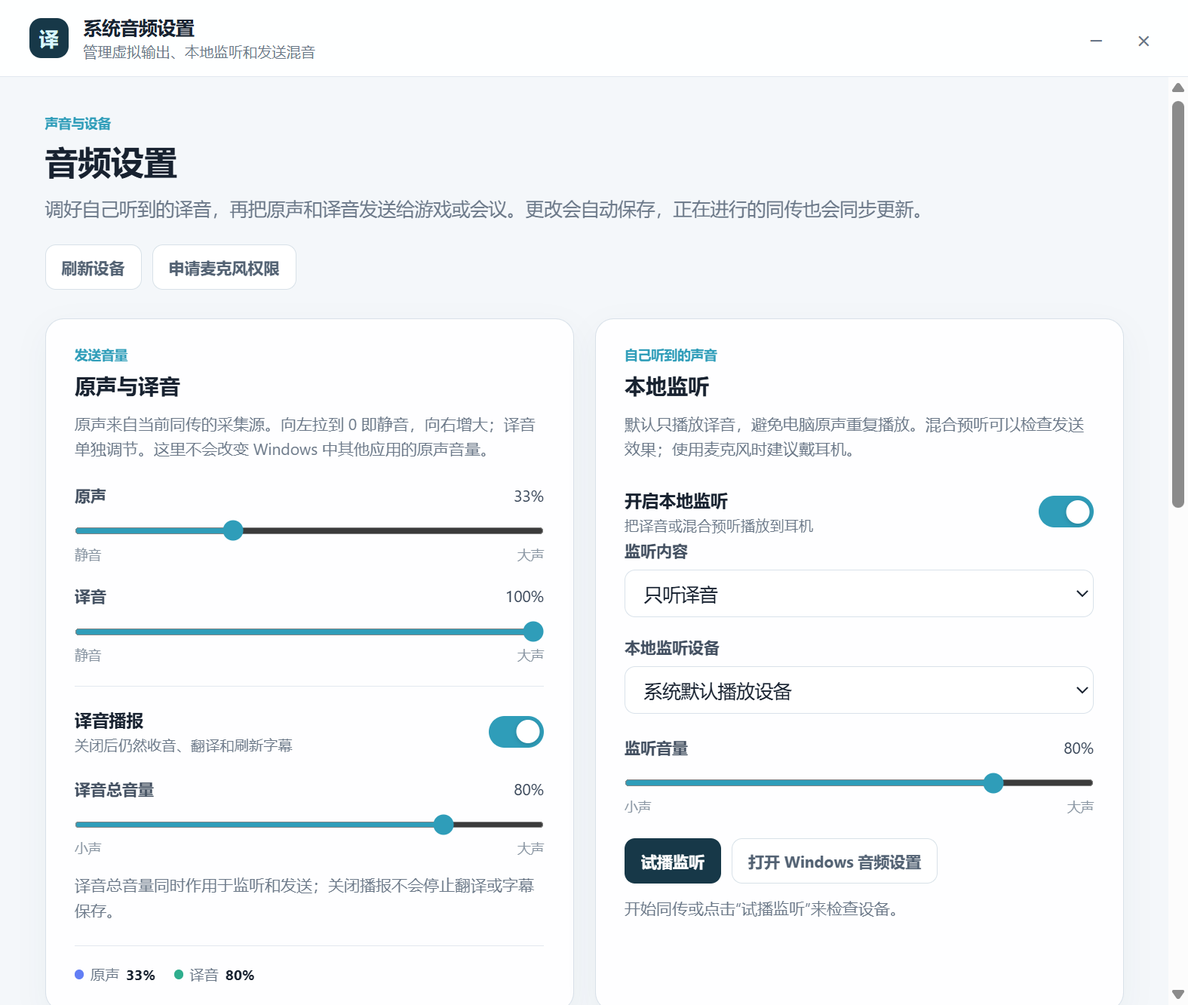
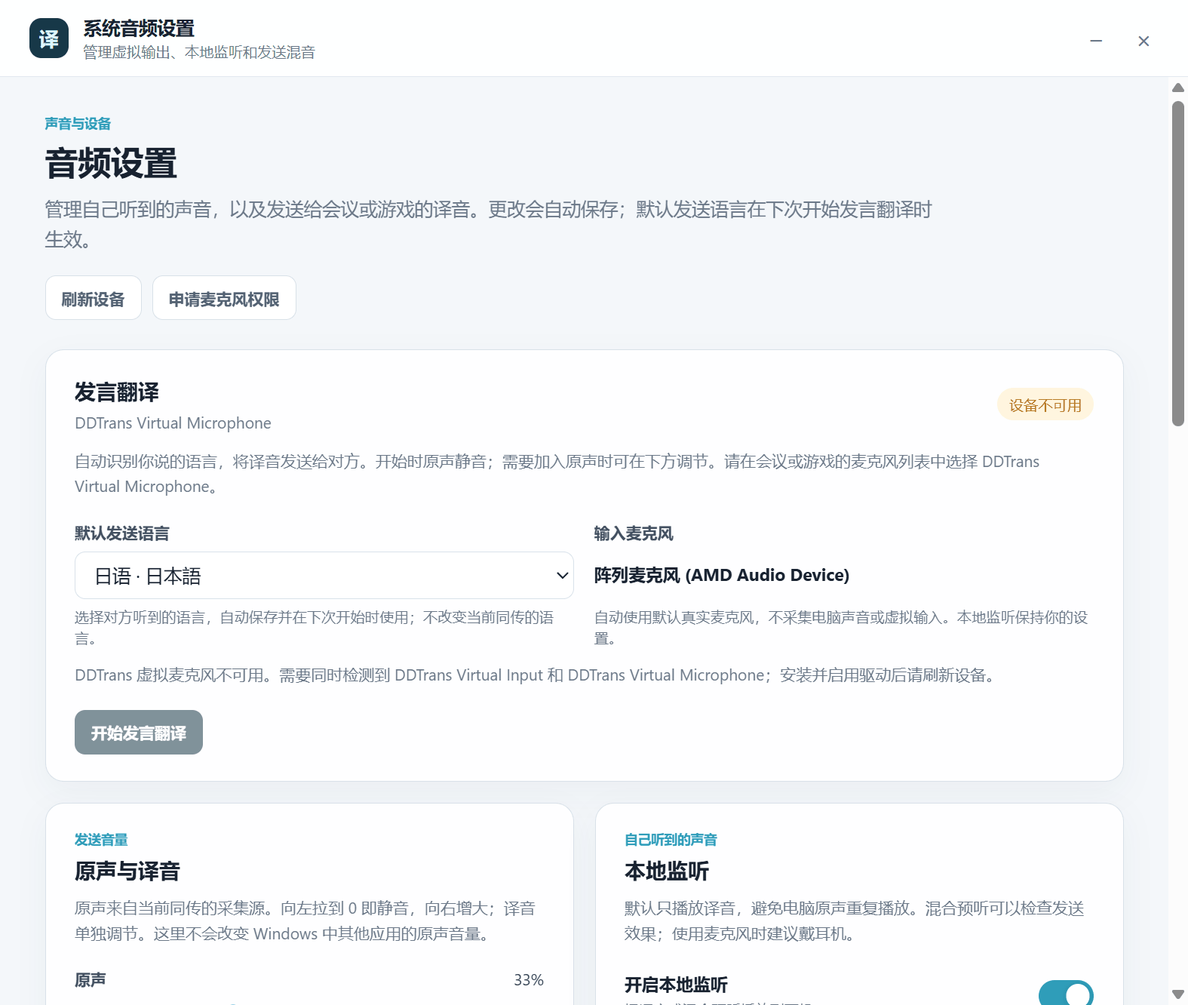
test(desktop): verify virtual microphone settings and document the development milestone

diff --git a/docs/virtual-microphone-production-plan-2026-10-29.md b/docs/virtual-microphone-production-plan-2026-10-29.md
@@ -1,17 +1,15 @@
 # DDTrans Virtual Microphone 生产方案
 
+> 2026-10-29 开发进展：已按自有最小驱动路线实现源码、x64 构建、开发签名与设置页发言翻译；尚未安装/加载或通过外部收音验证。用户已选择自有最小驱动；下文保留路线依据与后续验收，当前实测状态以 [开发记录](virtual-microphone-development-2026-10-29.md) 为准。
+
 日期：2026-10-29
 范围：让 Windows 会议、游戏和录音软件在麦克风列表中看到 `DDTrans Virtual Microphone`，并能收到 DDTrans 已混合的原声与译音。本文覆盖路线、架构、验收和发布边界。
 
 ## 结论
 
-当前 DDTrans 已具备这项工作的应用侧前提：48 kHz 单声道混音、原声/译音独立增益、独立监听、已有 Render Endpoint 的 `setSinkId` 路由，以及严格 JSON 设置合同。它还没有原生桥接、Windows 驱动、安装器或虚拟设备；本机探针也没有发现虚拟设备。因此，当前实现不能让会议或游戏选择 `DDTrans Virtual Microphone`。
+已按用户选择实现自有最小驱动路线：以 Microsoft SimpleAudioSample 固定版本为基础，提供 DDTrans Virtual Input / DDTrans Virtual Microphone 配对端点，复用当前 `setSinkId` 经 Chromium/WASAPI 输出，驱动桥接到 Capture。应用端已有 48 kHz 单声道混音、独立增益与监听，设置页已接入单向发言翻译。
 
-推荐路线是先验证端到端音频合同，再决定是否自有驱动：
-
-1. 使用用户自行安装的第三方虚拟线缆，把 DDTrans 混音发送到其 Render Endpoint，并在会议/游戏中选择配对的 Capture Endpoint。
-2. 验证通过后，在“自有 Windows 驱动”与“取得可分发的第三方商业/授权方案”之间做产品决策。
-3. 若做自有设备，第一版提供配对的 Render/Capture Endpoint：优先复用当前 `setSinkId` 经 Chromium/WASAPI 写入 Render Endpoint，驱动把这一条流提供给 Capture Endpoint；会议软件只看见后者。只有实测表明时钟、重连或可观测性不足时，才增加原生 WASAPI writer。不要一开始为应用设计私有 IOCTL 音频桥。
+当前产物包括驱动源码、可编译的 SYS/INF/CAT、原生检查与安装/移除工具、离线缓冲测试和本地开发签名。它们尚未安装或加载；本机没有 DDTrans 端点，外部收音仍待测试环境验证。第三方线缆保留为可选对照，不再是用户已选择路线的开发前置条件。
 
 这不是翻译协议或模型问题。它消费的是应用已产生的固定 PCM 混音流，翻译 WebSocket、模型和服务端可以保持解耦。
 
@@ -42,7 +40,7 @@
 
 按当前需求，建议把它定义为“发言翻译”里程碑，接入现有同传主线：
 
-1. 在设置页进入发言翻译，选择真实麦克风和要让对方听到的目标语言；源语言保持自动识别。
+1. 在设置页进入发言翻译，选择要让对方听到的目标语言；自动选择真实麦克风，源语言保持自动识别。
 2. 默认发送“仅译音”，原声增益为 0；需要双语原声时再增加原声。自己的监听单独开关、单独选耳机。
 3. 应用把该方向的混音送往 DDTrans Virtual Input，会议/游戏选择 DDTrans Virtual Microphone。
 4. 停止翻译时系统设备继续存在并输出静音；恢复翻译继续送入同一设备。
@@ -58,13 +56,13 @@
 - 严格 JSON 路由设置、即时应用和原子保存。
 - Windows 真实播放路径已验证；当前设备是普通扬声器，未验证外部程序通过配对 Capture Endpoint 收音。
 
-尚不存在：`DDTrans Virtual Microphone` Capture Endpoint、与其配对的 Render Endpoint、`.sys`/`.inf`/`.cat` 驱动包、签名、安装/卸载和 PnP 生命周期处理。
+已实现配对端点的源码、`.sys`/`.inf`/`.cat` 开发包、开发签名与安装/移除工具；本机尚无已安装的 DDTrans 端点。内核加载、真实收音及 PnP/电源生命周期均待实测。
 
 `AudioContext.setSinkId()` 只能选择系统已经枚举出的输出端点。它适合第一阶段把现有混音送进第三方线缆的 Render Endpoint，但不能创建新设备。音频 APO 也不是替代方案：Microsoft 将 APO 定义为插入既有音频处理图的用户态 DSP，且 APO 不能改变底层逻辑设备的 KS 拓扑。因此，改设备显示名或添加 APO 都不能凭空新增一个麦克风端点。[来源 7](#来源与访问日期)
 
 ## 最小可交付架构
 
-### 第一阶段：第三方端点的端到端证明
+### 可选对照：第三方端点的端到端证明
 
 ```text
 DDTrans 48 kHz mono mix bus
@@ -85,7 +83,7 @@ DDTrans 48 kHz mono mix bus
 
 VB-Audio 当前许可页分别规定不同产品与分发场景：基础 VB-CABLE 在终端用户能识别其 VB-Audio 身份、仍适用 donationware 模式等条件下，可以随应用分发；特定专业部署需要购买相应数量许可；VB-CABLE A+B、C+D 明确不能与其他产品捆绑分发。这些条件不能推导为可以任意去除厂商品牌或改造成 DDTrans 自有设备，定制名称及商业集成仍需核对实际适用授权。[来源 12](#来源与访问日期)
 
-### 第二阶段：自有驱动的最小数据路径
+### 已选路线：自有驱动的最小数据路径
 
 ```text
 DDTrans mix bus (48 kHz mono)
@@ -104,11 +102,13 @@ DDTrans mix bus (48 kHz mono)
 
 WASAPI/MMDeviceAPI 的职责正好覆盖此接口：应用枚举端点并对端点 render/capture 流；WaveRT 由音频引擎与 miniport 通过循环缓冲建立 render 或 capture 流。WaveRT 可减少复制，但这不代表可以省略驱动的实时状态、格式、缓冲与 PnP 实现。[来源 4](#来源与访问日期) [来源 5](#来源与访问日期)
 
-首版固定 PCM 合同为 `48 kHz / mono`，格式选择应在开发时根据驱动公开的格式能力定为一种明确的 PCM 表示。首选由当前 `setSinkId` 选择该 Render Endpoint；只有实测证明 Chromium 输出无法满足时钟稳定性、设备重连或所需诊断指标时，才增加原生 WASAPI writer。缓冲必须有上限，并计数写端饥饿、捕获端欠载、静音填充、格式拒绝和重连次数；不在方案阶段承诺具体延迟、性能或缓冲数值。
+首版固定硬件 PCM 合同为 `48 kHz / mono / signed PCM16`，Windows 共享模式适配客户端格式；桥缓存固定为 4800 样本（100 ms），当前数值未经真实内核延迟验证。首选由当前 `setSinkId` 选择该 Render Endpoint；只有实测证明 Chromium 输出无法满足时钟稳定性、设备重连或所需诊断指标时，才增加原生 WASAPI writer。缓冲必须有上限，并计数写端饥饿、捕获端欠载、静音填充、格式拒绝和重连次数；延迟与性能由真实设备验证给出，不由缓冲上限推断。
 
 不要在第一版做“Electron IPC 每帧 -> 私有 IOCTL -> Capture”路径。它引入应用、权限和内核接口的额外实时契约，却没有给会议软件带来任何必要能力。正常 Render/Capture Endpoint 对已经是 Windows 音频客户端的稳定边界；私有控制接口最多留给以后诊断或配置，不承载实时 PCM。
 
-### SysVAD 的正确用途
+### 样例选择与职责
+
+本轮实现使用较小的 Microsoft SimpleAudioSample，固定提交 `d65f6bb4041fa74f969e78ce2cfc230a71e824b4`，来源和 MIT 许可保存在 native/virtual-microphone/driver。样例的正弦采集和写磁盘路径已移除，替换为有界 Render→Capture 桥。
 
 Microsoft 的 SysVAD 是 WDM 虚拟音频设备驱动示例，展示多个音频设备、WaveRT 和端点实现，适合拿来建立项目骨架和理解 INF/拓扑。[来源 1](#来源与访问日期)
 
@@ -124,7 +124,7 @@ Microsoft 的 SysVAD 是 WDM 虚拟音频设备驱动示例，展示多个音频
 | D. 应用接入 | `setSinkId` 端点绑定、设备枚举/重连状态、既有 JSON 设置扩展；原生 writer 的实测决策记录 | 设备重启、禁用/启用、拔插等价 PnP 变化后状态可理解且可恢复；原生 writer 仅在已有输出未满足时新增 | 把原生 writer 预设为必需进程、改动翻译协议、模型或服务端 |
 | E. 安装与发布 | Windows 11 x64 驱动包、安装/卸载流程、签名提交记录、兼容性测试记录 | 干净安装、升级、卸载、重启、休眠恢复均可复现 | 未签名或测试签名向客户正式分发 |
 
-阶段 A 是继续自有驱动前的门槛：如果 DDTrans 的混音、设备选择或回声边界在第三方 Render/Capture pair 上都不能稳定通过，先修应用路由，而不是把问题带入内核。
+用户已选择自有路线，阶段 A 为可选对照，B 已完成路线选择。C/D 已实现源码与离线测试，真实端点与外部收音验收仍未完成；E 已有开发工具，正式签名和生命周期验收未完成。应用路由失败时先定位用户态与驱动边界，不以换驱动掩盖问题。
 
 ## 驱动、架构与构建边界
 
@@ -167,16 +167,11 @@ Microsoft 的 SysVAD 是 WDM 虚拟音频设备驱动示例，展示多个音频
 - **休眠/恢复**：睡眠、休眠与唤醒后验证 WaveRT 状态、WASAPI 会话和设备通知；无效句柄必须释放并重建，不能继续写入旧缓冲。
 - **并发与格式**：多个会议/录音客户端、48 kHz mono 之外的客户端请求、共享模式竞争和应用崩溃恢复都必须得到可诊断结果，而不是静默失声。
 
-## 决策门
+## 进入安装验证与正式发布
 
-在开始生产驱动前，必须同时满足：
+源码开发和离线构建可以继续，不需要提前重启。下一步是由用户安排可加载开发签名驱动的测试环境，先执行只读检查，再安装和验证。工具不会修改 BCD、Secure Boot 或证书根信任，也不会主动重启；Windows 返回重启要求时保留退出码并通知用户。
 
-- 阶段 A 的外部 Capture 录音证明已完成，且发送/监听/回送边界清晰。
-- 产品是否需要在会议软件中稳定保留设备名、是否需 Windows Update 分发，已形成 Windows 11 x64 的发布范围；ARM64 仅在明确提出后另行立项。
-- 第三方路线已取得适用许可，或自有驱动的签名账户、组织主体和发布责任已落实。
-- 自有驱动的固定 PCM 合同、静音失效策略、端点命名、安装卸载和测试矩阵已经评审。
-
-在此之前，最小且正确的投入是第三方 Render/Capture pair 上的端到端验证；不应新建私有实时 IOCTL 协议，不应改翻译协议/模型，也不应把 SysVAD 当成可直接发布的虚拟线缆。
+生产发布前完成前述 Capture 录音、回送隔离及生命周期验收，确定发布范围并落实 Microsoft 签名流程。当前开发包不得作为已认证发行版，也不能以“编译通过”代替内核运行结果。
 
 ## 来源与访问日期
 

diff --git a/docs/virtual-microphone-development-2026-10-29.md b/docs/virtual-microphone-development-2026-10-29.md
@@ -1,0 +1,91 @@
+# DDTrans 自有虚拟麦克风开发记录
+
+日期：2026-10-29。范围：Windows 11 x64，自有最小 Render/Capture 驱动、设置页发言翻译、可重复的构建与验证。
+
+## 当前交付状态
+
+源码已实现并编译出内核驱动及原生工具；INF 与目录生成检查通过。音频桥有离线参考模型测试。主机尚未安装或加载驱动，尚不能宣称外部会议能从 DDTrans Virtual Microphone 收到声音。实际安装、加载及外部收音是下一步，需要先确定签名测试环境。
+
+编译与应用开发可以在当前主机完成，不需要重启。只有进入本地测试签名的启动配置或 Windows 明确报告安装后重启时才需要通知用户。简单重启当前电脑不会自动增加设备。
+
+## 数据路径
+
+实体麦克风 → 同一媒体宿主识别/翻译/TTS → 48 kHz 混音 → DDTrans Virtual Input（Render） → 驱动音频桥 → DDTrans Virtual Microphone（Capture） → 会议或游戏。
+
+- 源语言由现有模型自动识别；驱动不参与模型协议。
+- 播放和录音端的硬件格式一致：48 kHz、单声道、16 位 PCM，支持 DEFAULT 与 RAW 信号处理模式。Windows 共享音频引擎负责客户端格式适配。
+- 桥位于每个适配器的非分页内存中，以自旋锁保护，以最多两段连续内存复制搬运 PCM；固定 4800 个采样（100 ms）上限。满时丢最旧内容，欠载填零。
+- 播放流停止、重新开始、采集流切换及设备电源变化会清理缓存；100 ms 没有新写入时清理旧内容。长时间调度中断最多处理一圈 DMA 缓冲，避免追放旧音频。
+- 同一适配器只开放一个系统播放流和一个系统采集流；多个共享模式客户端由 Windows 音频引擎分发，不在驱动内重复实现混音器。
+- 新代码使用结构与函数；PortCls/KMDF 的 COM 接口沿用官方样例必需的接口实现。
+
+## 来源与改动
+
+以 Microsoft Windows-driver-samples 中的 SimpleAudioSample 为基础，固定提交 d65f6bb4041fa74f969e78ce2cfc230a71e824b4。MIT 许可保留在 native/virtual-microphone/driver/LICENSE，来源记在 UPSTREAM.md。
+
+替换了示例的正弦测试音和写磁盘路径，统一了原本不一致的播放/采集格式，加入有界 PCM 桥、DDTrans 设备身份和专属端点名称，并调整流销毁时的定时器回调停止顺序。Wave miniport 持有 adapter 强引用以保证缓冲寿命；启动失败回滚、power-management 注册/解除、端点安装失败传播和 DMA 映射失败也已补齐。驱动没有云端请求、私有实时 IOCTL、额外翻译服务或应用私有 PCM 写入器。
+
+## 构建
+
+需要已有 Visual Studio 2022 的 x64 C++ 工具和 Windows SDK 10.0.26100.0。当前主机已有这两项。额外 WDK 使用项目本地 NuGet 包，不运行全局安装器：下载 110872506 bytes，解压约 319 MB，SHA-256 固定在恢复脚本中。
+
+从仓库根目录运行：
+
+~~~powershell
+npm run driver:restore
+npm run driver:build
+npm run driver:check
+~~~
+
+构建产物默认保存在 data/driver-development/build（Git 忽略）：
+
+| 文件 | 用途 |
+| --- | --- |
+| package/DDTransVirtualAudio.sys | x64 内核音频驱动 |
+| package/DDTransVirtualAudio.inf | ROOT\DDTransVirtualAudio、端点名称与 PortCls/KMDF 安装声明 |
+| package/DDTransVirtualAudio.cat | Inf2Cat 为包生成的目录 |
+| ddtrans-device-tool.exe | 原生端点/签名策略查询，以及显式安装、移除专属硬件 ID |
+| ddtrans-probe.exe | 直接使用 WASAPI 从 Render 播放 997 Hz、从 Capture 收音并检查停止后的静音 |
+| audio-ring-tests.exe | 可离线运行的音频缓冲参考模型测试 |
+
+build.ps1 使用 /kernel、/W4 /WX、栈保护与 CFG。它会先运行缓冲测试，再编译驱动和原生工具，执行 InfVerif /w 与 Inf2Cat。输出成功不代表已通过内核运行、HLK、休眠/唤醒或会议兼容性测试。
+
+~~~powershell
+npm run driver:sign-dev
+npm run driver:package
+~~~
+
+开发签名脚本在当前用户个人证书存储创建或复用 DDTrans Local Driver Development 代码签名证书，并签署 SYS 和 CAT。私钥不可导出；只导出公开 CER。它不把证书加入信任根、不修改测试签名或 Secure Boot、不安装设备、不重启。开发签名不等于 Microsoft 发布签名。打包脚本包含 SYS/INF/CAT、原生工具、安装脚本、公开 CER、MIT 许可和 SHA-256 清单；私钥不进入 ZIP。当前开发包为 data/driver-development/DDTrans-Virtual-Microphone-dev-x64.zip（222199 bytes），SHA-256 为 125c85b925d4291125dd39cf08ffee67363f97733a6058efd3fba6dcf3582b4a。
+
+## 安装边界
+
+install.ps1 默认仅检查。只有显式选择 Install/Remove 才修改设备，并要求管理员权限。开发包遇到 Secure Boot 开启或测试签名未生效时拒绝安装；没有可信签名时也不会先创建占位设备。脚本不修改 BCD、系统安全开关或证书信任，不主动重启。Windows 返回 3010 时打印需要用户安排重启并保留该退出码。
+
+设备安装工具仅匹配 ROOT\DDTransVirtualAudio。首次安装失败会尝试移除刚创建的节点；移除流程只删除匹配的设备及其已关联的 OEM 驱动包，不操作其他品牌虚拟声卡。
+
+正式分发应准备适用的 Microsoft 签名流程；本次仅提供开发包。当前主机 Secure Boot 与 HVCI 开启，测试签名未开启；当前用户的开发证书链以不受信任的根结束（PowerShell 状态 UnknownError），未导入根信任。故停止在加载前。
+
+## 设置页
+
+设置页增加“发言翻译”：保存默认发送语言，自动选择真实麦克风，自动绑定唯一的 DDTrans 播放/录音配对端点，开始时只发送译音。源语言自动处理，无源语言下拉框。已有听译会话运行时必须先停止，不静默替换；自己的监听继续使用独立设置。每次新建发言会话的原声为 0；会话内调整只改变 outgoingOriginalGain，暂停恢复保留，停止后还原收听 originalGain（包含原本为 0 的设置）。
+
+缺少设备时明确显示尚未检测到，不把普通扬声器当作虚拟麦克风。默认发送语言独立于收听翻译的目标语言，设置不会立即打断当前会话。
+
+## 验证记录
+
+- x64 驱动与原生工具编译通过。
+- 缓冲完成 50000 次随机读写和参考队列对照，覆盖顺序、溢出保留最新数据、欠载补静音、停止清空及重新开始不播放旧内容。
+- InfVerif /w 通过；Inf2Cat signability 检查无错误、无警告。它们不是驱动正式签名或硬件兼容性认证。
+- 原生工具查询确认当前没有 DDTrans 端点；WASAPI 收音探针对缺设备明确失败，不播放默认扬声器。
+- 应用自动化测试 84/84 通过，覆盖发言与收听的会话隔离、设备唯一配对、缺设备拒绝启动、设备断开暂停、原声增益恢复、模式/sessionId 校验及设置保存。
+- verify:desktop、verify:overlay、verify:audio-routing、verify:capture、verify:loopback 均通过；其中桌面/悬浮窗使用本地模型替身，未调用收费模型。音频路由专项包含真实 Web Audio 混音及 Windows 输出/回采、发送语言快速关闭保存与收听语言隔离、无驱动时按钮禁用和页面无水平溢出。
+- 最终构建、签名、包哈希与当前未加载状态记录在 data/probes/virtual-microphone-development.json。
+
+尚待在已安排好的驱动测试环境完成：安装/升级/卸载、重启后枚举、WASAPI 真实 Render→Capture 收音、会议/游戏共享客户端、暂停/恢复、异常退出静音、设备禁用/启用、Windows 端点音量/静音、睡眠唤醒和长会话。每一项都需要实际证据，不能由编译成功代替。
+
+## 官方参考
+
+- Microsoft SimpleAudioSample：https://github.com/microsoft/Windows-driver-samples/tree/d65f6bb4041fa74f969e78ce2cfc230a71e824b4/audio/simpleaudiosample
+- Friendly names：https://learn.microsoft.com/en-us/windows-hardware/drivers/audio/friendly-names-for-audio-endpoint-devices
+- Driver signing：https://learn.microsoft.com/en-us/windows-hardware/drivers/install/kernel-mode-code-signing-policy--windows-vista-and-later-
+- TESTSIGNING：https://learn.microsoft.com/en-us/windows-hardware/drivers/install/the-testsigning-boot-configuration-option

diff --git a/docs/next-optimization-plan-2026-10-29.md b/docs/next-optimization-plan-2026-10-29.md
@@ -1,45 +1,39 @@
 # DDTrans 后续优化计划
 
-日期：2026-10-29。本文只列当前事实、尚未完成项和下一步验收；音频设置页不是未来阶段，已经在本轮第四步完成。
+日期：2026-10-29。当前开发状态以 [虚拟麦克风开发记录](virtual-microphone-development-2026-10-29.md) 为准。
 
-## 本轮已完成
+## 已完成的开发
 
-1. 48 kHz、单声道真实混音：原声与 24 kHz TTS 译音进入同一 Worklet，逐采样 `clamp[-1, 1]`，输出真实峰值和限幅采样计数。
-2. 应用侧虚拟输出接入：混音可发送到用户选定的既有 Render Endpoint；本地监听独立存在，默认只听译音，可选混合预听。
-3. 应用侧真实验证：39/39 自动化测试通过；`verify:audio-routing`、`verify:overlay`、`verify:capture`、`verify:loopback` 全部通过。Windows 探针记录了真实混音和显式所选扬声器输出、增益比例、限幅、设备断开静音、系统回采隔离和 10 秒缓冲上限。
-4. 设置融合：主窗、悬浮窗、设置页共享媒体宿主和严格路由配置；设置即时生效，`audio-settings.json` 原子保存，设备以 `deviceId` 和唯一完整 label 重绑定，缺失设备不回退。
+- 共享媒体宿主、主窗与悬浮窗生命周期、成对字幕、说话人归段、尾段保存与 SQLite 增量落库。
+- 48 kHz 单声道混音、原声/译音独立增益、TTS 开关、独立监听、明确的输出端点绑定与原子保存设置。
+- 自有最小 Windows 11 x64 驱动源码：配对 Render/Capture 端点、48 kHz/mono/PCM16、100 ms 有界桥、溢出丢旧与欠载静音。
+- 本地 WDK 恢复、驱动编译、离线音频缓冲测试、INF 检查、目录生成、开发签名及显式安装/移除工具。
+- 设置页发言翻译：默认发送语言、自动选择实体麦克风、DDTrans 端点配对、设备缺失提示。发送语言与收听语言分开保存；发言模式的原声增益与收听模式独立。
 
-这次原声/译音增益改变的是 DDTrans 的混音输出。它不会改变其他 Windows 应用的会话音量；Windows 原应用音量控制仍未接入。
+源码和开发包不代表设备已经可用。当前机器未安装或加载 DDTrans 驱动，尚未完成任何外部应用从 DDTrans Virtual Microphone 收音的实测。当前原声增益控制 DDTrans 的混音，不控制游戏或会议的 Windows 应用音量。
 
-## 尚未完成
+## 下一步顺序
 
-- 当前机器没有虚拟设备，未完成 Teams、Discord、游戏或录音软件从配对 Capture Endpoint 收到混音的实机验证。
-- 没有自有 `DDTrans Virtual Microphone`：正式 Windows 驱动、签名、安装卸载、升级、故障恢复和休眠恢复均未开始。
-- 长会话下的断网、网络恢复、睡眠/唤醒、设备重插和长时间 TTS 队列稳定性尚未形成实机证据。
-- 数据库的媒体保留、备份、导出、删除确认、孤儿媒体清理，以及更细的会话内说话人管理尚未完成。
-- 热词仍需统一为明确的应用级/会话级配置来源。
-- 多模型管理、本地视频翻译、协议扩展和实时变声尚未开始。
+### 1. 安排驱动测试环境并验证真实收音
 
-## 接下来优先顺序
+开发包是本地测试签名，当前主机 Secure Boot 开启、测试签名未启用。到加载验证时再由用户安排测试环境和所需重启；简单重启不会添加设备，不自动更改启动设置。先运行只读检查，再完成安装、端点枚举、原生 WASAPI Render→Capture 探针和至少一个会议/录音客户端验证。
 
-### 1. 第三方虚拟设备外部软件实测
+验收：两端点名称与方向正确，997 Hz 测试音可从 Capture 录到，停止后静音；设置页开始发言翻译后外部客户端收到译音，加入原声后比例正确；本地监听开关不改变发送，系统回采不会把远端声音送回对方。
 
-在安装 VB-CABLE、VoiceMeeter 或等价设备的 Windows 机器上，选择 Render Endpoint，并在至少一个会议软件、一个游戏语音或录音工具中选择配对 Capture Endpoint。验收：原声/译音增益、TTS 开关、默认译音监听和混合预听符合设置；暂停/恢复、目标语言切换和退出后设备句柄释放可复现；录音回放能证明外部应用实际收到的内容。
+### 2. 完成驱动生命周期和发布
 
-### 2. 完善声音控制与运行稳定性
+覆盖新装、升级、卸载、设备禁用/启用、睡眠唤醒、多共享客户端、应用异常退出与长会话。记录延迟、丢弃/欠载和内存趋势。按实际发布范围准备 Microsoft 签名与安装体验；开发测试签名包不作为正式发行包。
 
-先明确外放原声和混音原声的区别；若要在本应用中调低游戏/会议外放，增加明确选择目标应用的 Windows 音量控制。继续覆盖断网、重连、睡眠/唤醒、输出设备断开重插、长会话和缓冲压力。验收：不会重复发送旧音频，不会无限堆积，缺设备时保持关闭且明确提示，恢复后只在用户或唯一标签重绑定规则允许时重新打开。
+### 3. 完善运行稳定性与声音控制
 
-### 3. 整理数据与配置归属
+覆盖断网、重连、采集权限变化、实体麦克风切换及长时间 TTS 队列；确保暂停/停止后不重复发送旧音频，设备失效时显示可操作提示。若要控制游戏/会议本身的外放音量，再增加明确选择目标应用的 Windows 会话音量控制。
 
-实现媒体保留/备份/删除策略、导出、孤儿媒体扫描、会话内说话人别名与筛选，以及热词的统一存储和回显合同。验收：删除、备份和恢复都可检查；同一设置不再分散在页面临时状态与多个存储位置。
+### 4. 整理数据库与配置归属
 
-### 4. 决定并实现自有 Windows 驱动
+补充媒体保留、备份、导出、删除与孤儿媒体清理策略；增加会话内说话人别名与筛选；统一热词配置来源和回显。以备份、恢复和删除的可检查结果验收。
 
-仅在第三方设备验证清楚端点和体验要求后，基于 Windows 虚拟音频驱动模型实现 `DDTrans Virtual Microphone`。验收：签名后的驱动可以安装、卸载、升级；设备可被外部应用枚举；应用与驱动以固定 PCM 格式和有界缓冲连接；休眠/唤醒、设备占用和异常退出都有明确行为。
+### 5. 扩展产品能力
 
-### 5. 最后扩展产品能力
+双向翻译先拆清本地发言与远端收听的独立会话、语言、采集与输出，避免回送。多模型管理、本地视频翻译、WebRTC/AOQ 和实时变声按独立需求推进；新连接协议先由模型实际支持和测量结果决定。
 
-先以实测决定 WebSocket 之外是否需要 WebRTC/AOQ，再做多模型和本地视频的任务协议；实时变声另立音频链路，不与 TTS 音色或虚拟驱动混为一项。验收：新协议或模型复用现有会话收尾、段落归并和持久化合同；视频先完成单文件、时间轴和字幕导出后再做队列；变声有独立的延迟与路由验证。
-
-具体的系统设备实现、第一期 Windows 11 x64 范围、签名与安装方案见 [DDTrans Virtual Microphone 制作方案](virtual-microphone-production-plan-2026-10-29.md)。
+当前的验证范围、可重复命令和本地证据路径见 [开发记录](virtual-microphone-development-2026-10-29.md)，系统设备与签名方案见 [制作方案](virtual-microphone-production-plan-2026-10-29.md)。

diff --git a/README.md b/README.md
@@ -8,6 +8,12 @@
 
 ![Qwen 3.8 真实联调完成后的界面](docs/images/realtime-3.8-verified.png)
 
+## 自有虚拟麦克风开发版
+
+Windows 11 x64 的自有驱动源码、构建脚本和原生收音探针已加入仓库。设置页新增“发言翻译”，可独立保存发给对方的默认语言，源语言自动识别；检测到 DDTrans 播放/录音端点后自动配对，默认只发送译音。
+
+当前已完成离线编译与缓冲测试，开发驱动尚未在本机安装或加载。端点安装前，会议/游戏的麦克风列表不会出现 DDTrans Virtual Microphone。构建不需要重启；测试签名环境和设备加载需单独安排，脚本不会修改启动配置或自动重启。具体命令、开发包与验收边界见 [自有虚拟麦克风开发记录](docs/virtual-microphone-development-2026-10-29.md)。
+
 ## 安装与启动
 
 开发环境需要 Node.js `>=24.13.0` 和 npm；从仓库根目录执行：
@@ -126,7 +132,7 @@ data/
 npm test
 ```
 
-2026 年 10 月 29 日最终回归：**39/39 自动化测试通过**，`verify:desktop`、`verify:overlay`、`verify:audio-routing`、`verify:capture`、`verify:loopback` 均通过。音频路由专项包含真实 Web Audio 混音、Windows 回环和显式所选播放设备输出；本机无虚拟设备，外部会议的虚拟输入尚未实测。`npm test` 使用临时数据库和本地网络替身，不需要真实 Key，不连接模型，也不打开正式 `data/translation.db`。专项验证实际使用本机音频设备，证据写入独立测试目录。
+2026 年 10 月 29 日最终回归：**84/84 自动化测试通过**，`verify:desktop`、`verify:overlay`、`verify:audio-routing`、`verify:capture`、`verify:loopback` 均通过。音频路由专项包含真实 Web Audio 混音、Windows 回环和显式所选播放设备输出；本机无虚拟设备，外部会议的虚拟输入尚未实测。`npm test` 使用临时数据库和本地网络替身，不需要真实 Key，不连接模型，也不打开正式 `data/translation.db`。专项验证实际使用本机音频设备，证据写入独立测试目录。
 
 | 证据 | 内容 |
 | --- | --- |
@@ -141,6 +147,8 @@ npm test
 | `data/probes/audio-routing-verification.json` | 48 kHz 真实混音、显式所选设备/回环数值、增益比例、限幅计数、断开静音、设置保存验证 |
 | `docs/audio-routing-implementation-2026-10-29.md` | 混音总线、设置保存、虚拟设备边界和本轮验证结果 |
 | `docs/virtual-microphone-production-plan-2026-10-29.md` | 系统可枚举虚拟麦克风的实现、主线判断和制作计划 |
+| `docs/virtual-microphone-development-2026-10-29.md` | 自有驱动构建、发言翻译设置、开发包与未加载边界 |
+| `data/probes/virtual-microphone-development.json` | 驱动构建/缓冲/INF、应用回归、开发包哈希和安装前状态 |
 | `data/probes/migration-check.json` | 原库副本的迁移、逐列数据保留和完整性检查 |
 | `data/probes/production-startup.json` | 正式旧库自动备份与迁移完成，原有字段逐列保留 |
 | `docs/images/realtime-3.8-verified.png` | 真实 Electron 联调截图 |
